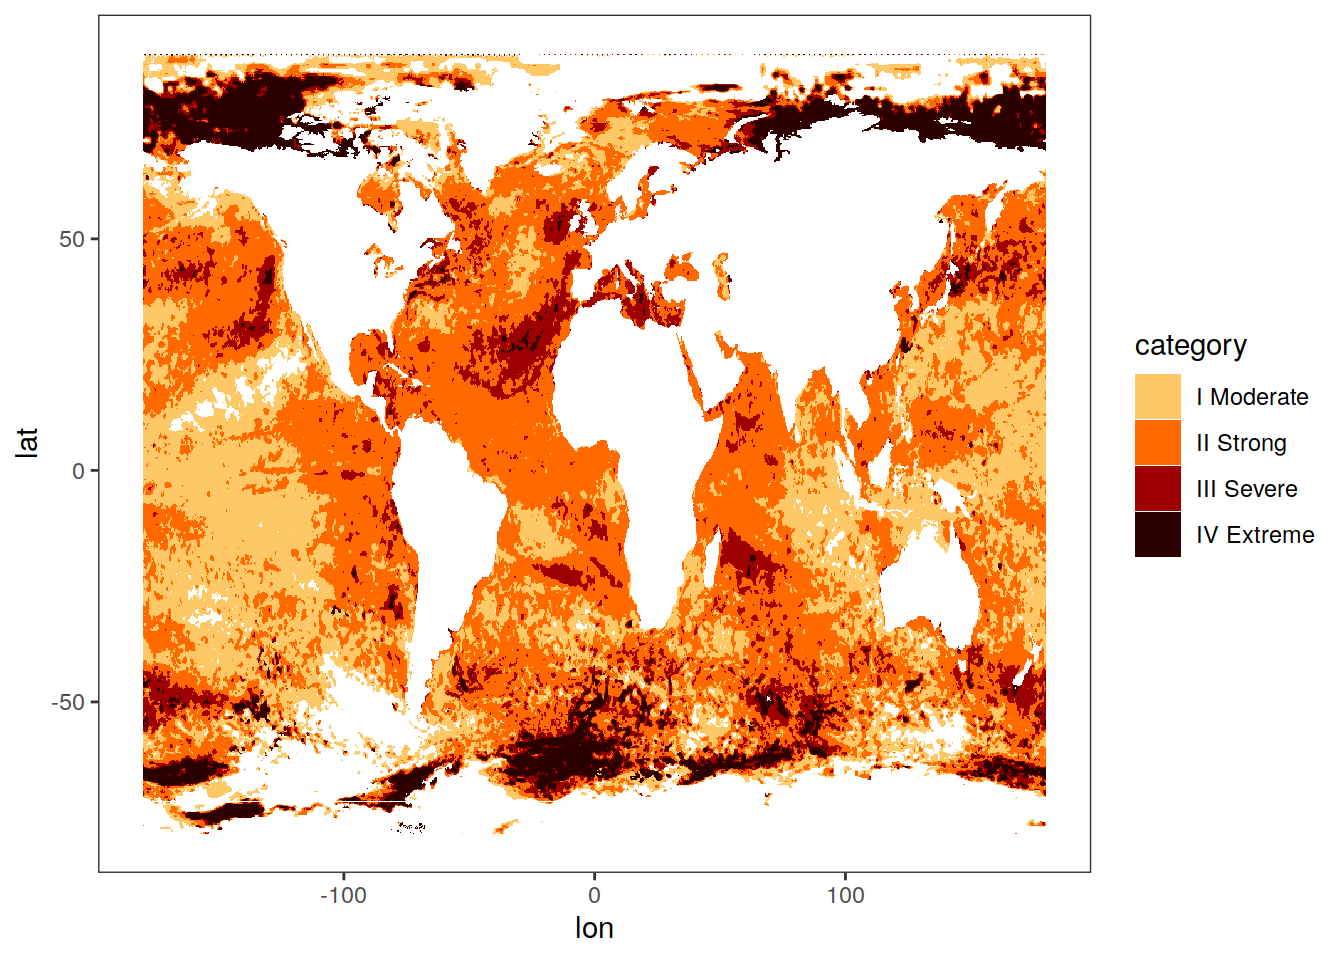
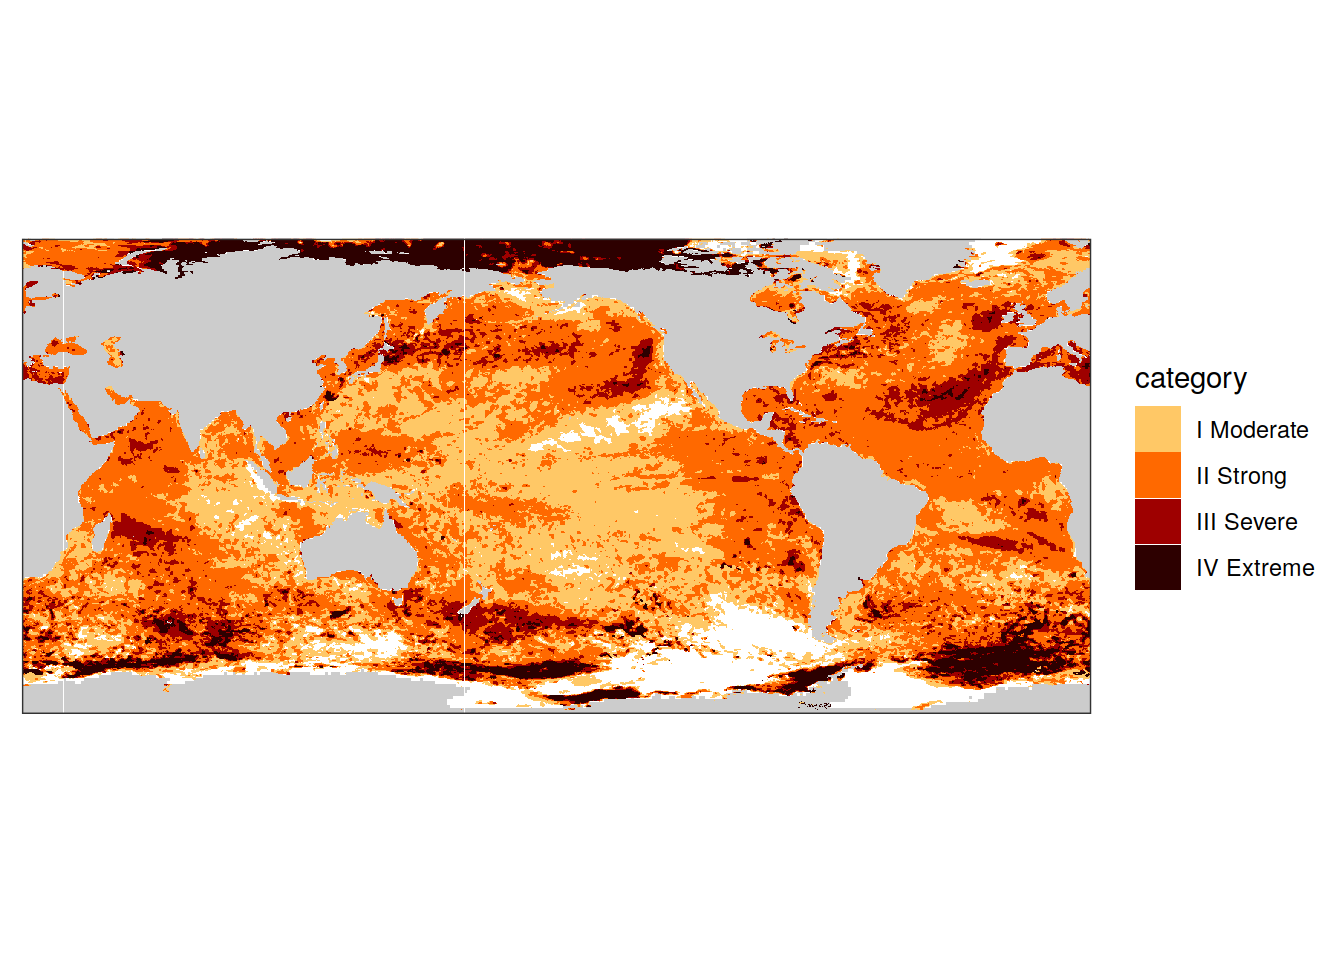
Build site.

diff --git a/docs/mhw_stats.html b/docs/mhw_stats.html
@@ -576,15 +576,15 @@ project makes it easier to run your code on other machines.</p>
 <div class="panel panel-default">
 <div class="panel-heading">
 <p class="panel-title">
-<a data-toggle="collapse" data-parent="#workflowr-checks" href="#strongRepositoryversionstrongahrefhttpsgithubcomjensdanielmuellerheatwaveco2flux2023tree63581785951e5d8ff635e6595d6369bfd85ce206targetblank6358178a">
+<a data-toggle="collapse" data-parent="#workflowr-checks" href="#strongRepositoryversionstrongahrefhttpsgithubcomjensdanielmuellerheatwaveco2flux2023treee537d6634d0e7b52669ed6558d202759836587cdtargetblanke537d66a">
 <span class="glyphicon glyphicon-ok text-success"
 aria-hidden="true"></span> <strong>Repository version:</strong>
-<a href="https://github.com/jens-daniel-mueller/heatwave_co2_flux_2023/tree/63581785951e5d8ff635e6595d6369bfd85ce206" target="_blank">6358178</a>
+<a href="https://github.com/jens-daniel-mueller/heatwave_co2_flux_2023/tree/e537d6634d0e7b52669ed6558d202759836587cd" target="_blank">e537d66</a>
 </a>
 </p>
 </div>
 <div
[2 lines of base64/hex data omitted]
 class="panel-collapse collapse">
 <div class="panel-body">
 <p>
@@ -594,7 +594,7 @@ reproducibility.
 </p>
 <p>
 The results in this page were generated with repository version
-<a href="https://github.com/jens-daniel-mueller/heatwave_co2_flux_2023/tree/63581785951e5d8ff635e6595d6369bfd85ce206" target="_blank">6358178</a>.
+<a href="https://github.com/jens-daniel-mueller/heatwave_co2_flux_2023/tree/e537d6634d0e7b52669ed6558d202759836587cd" target="_blank">e537d66</a>.
 See the <em>Past versions</em> tab to see a history of the changes made
 to the R Markdown and HTML files.
 </p>
@@ -656,6 +656,40 @@ Message
 </tr>
 </thead>
 <tbody>
+<tr>
+<td>
+Rmd
+</td>
+<td>
+<a href="https://github.com/jens-daniel-mueller/heatwave_co2_flux_2023/blob/e537d6634d0e7b52669ed6558d202759836587cd/analysis/mhw_stats.Rmd" target="_blank">e537d66</a>
+</td>
+<td>
+jens-daniel-mueller
+</td>
+<td>
+2024-03-24
+</td>
+<td>
+MHW stats started
+</td>
+</tr>
+<tr>
+<td>
+html
+</td>
+<td>
+<a href="https://rawcdn.githack.com/jens-daniel-mueller/heatwave_co2_flux_2023/dd640bdf90789c828e66beb69aa6d221046932f6/docs/mhw_stats.html" target="_blank">dd640bd</a>
+</td>
+<td>
+jens-daniel-mueller
+</td>
+<td>
+2024-03-24
+</td>
+<td>
+Build site.
+</td>
+</tr>
 <tr>
 <td>
 Rmd
@@ -828,10 +862,38 @@ latitude_labels_trans &lt;- st_transform(latitude_labels, crs = target_crs)
 #                aes(label = lat_label),
 #                size = 3,
 #                col = &quot;grey60&quot;)</code></pre>
+<div id="load-masks" class="section level1">
+<h1>Load masks</h1>
+<pre class="r"><code>map &lt;-
+  read_rds(&quot;../data/map.rds&quot;)
+
+key_biomes &lt;-
+  read_rds(&quot;../data/key_biomes.rds&quot;)
+
+super_biomes &lt;-
+  read_rds(&quot;../data/super_biomes.rds&quot;)
+
+super_biome_mask &lt;-
+  read_rds(&quot;../data/super_biome_mask.rds&quot;)
+
+biome_mask &lt;-
+  read_rds(&quot;../data/biome_mask.rds&quot;)</code></pre>
+</div>
 <div id="read-data" class="section level1">
 <h1>Read data</h1>
 <pre class="r"><code>MHW_cat_pixel_2023 &lt;- read_rds(&quot;../data/MHW_cat_pixel_2023.Rds&quot;)
+
+
+MHW_cat_pixel_2023 &lt;-
+  MHW_cat_pixel_2023 %&gt;%
+  rename(time = t) %&gt;%
+  mutate(lon = if_else(lon &lt; 20, lon + 360, lon))
+
+
 MHW_cat_daily_2023 &lt;- read_rds(&quot;../data/MHW_cat_daily_2023.Rds&quot;)</code></pre>
+</div>
+<div id="maps" class="section level1">
+<h1>Maps</h1>
 <pre class="r"><code>fillColCat &lt;- c(
   &quot;I Moderate&quot; = &quot;#ffc866&quot;,
   &quot;II Strong&quot; = &quot;#ff6900&quot;,
@@ -839,11 +901,11 @@ MHW_cat_daily_2023 &lt;- read_rds(&quot;../data/MHW_cat_daily_2023.Rds&quot;)</c
   &quot;IV Extreme&quot; = &quot;#2d0000&quot;
   )
 
-MHW_cat_pixel_2023 %&gt;% 
-  # filter(t == min(t)) %&gt;% 
-  ggplot(aes(lon, lat, fill = category)) +
+
+map +
   scale_fill_manual(values = fillColCat) +
-  geom_tile()</code></pre>
+  geom_tile(data =
+              MHW_cat_pixel_2023, aes(lon, lat, fill = category))</code></pre>
 <p><img src="figure/mhw_stats.Rmd/plot_mhw_map-1.png" width="672" style="display: block; margin: auto;" /></p>
 <p>
 <button type="button" class="btn btn-default btn-xs btn-workflowr btn-workflowr-fig" data-toggle="collapse" data-target="#fig-plot_mhw_map-1">
@@ -882,11 +944,12 @@ jens-daniel-mueller
 </table>
 </div>
 </div>
-<pre class="r"><code>MHW_cat_pixel_2023 %&gt;% 
-  # filter(t == min(t)) %&gt;% 
-  ggplot(aes(lon, lat, fill = intensity)) +
-  scale_fill_viridis_c(option = &quot;magma&quot;) +
-  geom_tile()</code></pre>
+<pre class="r"><code>map +
+  geom_tile(data =
+              MHW_cat_pixel_2023, aes(lon, lat, fill = intensity_sum)) +
+  scale_fill_viridis_b(option = &quot;magma&quot;,
+                       breaks = c(seq(0, 1000, 200), Inf),
+                       direction = -1)</code></pre>
 <p><img src="figure/mhw_stats.Rmd/plot_mhw_map-2.png" width="672" style="display: block; margin: auto;" /></p>
 <p>
 <button type="button" class="btn btn-default btn-xs btn-workflowr btn-workflowr-fig" data-toggle="collapse" data-target="#fig-plot_mhw_map-2">
@@ -913,52 +976,6 @@ Date
 <tr>
 <td>
 <a href="https://github.com/jens-daniel-mueller/heatwave_co2_flux_2023/blob/1a5167d3900043a4afdc4c20c43e4d03a9b0cd25/docs/figure/mhw_stats.Rmd/plot_mhw_map-2.png" target="_blank">1a5167d</a>
-</td>
-<td>
-jens-daniel-mueller
-</td>
-<td>
-2024-03-24
-</td>
-</tr>
-</tbody>
-</table>
-</div>
-</div>
-<pre class="r"><code>MHW_cat_pixel_2023 %&gt;% 
-  # filter(t == min(t)) %&gt;% 
-  ggplot(aes(lon, lat, fill = intensity_sum)) +
-  scale_fill_viridis_b(option = &quot;magma&quot;,
-                       breaks = c(seq(0,1000,200),Inf),
-                       direction = -1) +
-  geom_tile() +
-  coord_quickmap(expand = 0)</code></pre>
-<p><img src="figure/mhw_stats.Rmd/plot_mhw_map-3.png" width="672" style="display: block; margin: auto;" /></p>
-<p>
-<button type="button" class="btn btn-default btn-xs btn-workflowr btn-workflowr-fig" data-toggle="collapse" data-target="#fig-plot_mhw_map-3">
-Past versions of plot_mhw_map-3.png
-</button>
-</p>
-<div id="fig-plot_mhw_map-3" class="collapse">
-<div class="table-responsive">
-<table class="table table-condensed table-hover">
-<thead>
-<tr>
-<th>
-Version
-</th>
-<th>
-Author
-</th>
-<th>
-Date
-</th>
-</tr>
-</thead>
-<tbody>
-<tr>
-<td>
-<a href="https://github.com/jens-daniel-mueller/heatwave_co2_flux_2023/blob/1a5167d3900043a4afdc4c20c43e4d03a9b0cd25/docs/figure/mhw_stats.Rmd/plot_mhw_map-3.png" target="_blank">1a5167d</a>
 </td>
 <td>
 jens-daniel-mueller
@@ -1009,38 +1026,38 @@ other attached packages:
 [19] tibble_3.2.1        ggplot2_3.4.4       tidyverse_1.3.2    
 
 loaded via a namespace (and not attached):
- [1] googledrive_2.0.0       ellipsis_0.3.2          class_7.3-20           
- [4] rprojroot_2.0.3         fs_1.5.2                rstudioapi_0.15.0      
- [7] proxy_0.4-27            farver_2.1.1            bit64_4.0.5            
-[10] fansi_1.0.3             lubridate_1.9.0         xml2_1.3.3             
-[13] codetools_0.2-18        cachem_1.0.6            knitr_1.41             
-[16] polyclip_1.10-4         jsonlite_1.8.3          workflowr_1.7.0        
-[19] gsw_1.1-1               broom_1.0.5             dbplyr_2.2.1           
-[22] compiler_4.2.2          httr_1.4.4              backports_1.4.1        
-[25] assertthat_0.2.1        fastmap_1.1.0           gargle_1.2.1           
-[28] cli_3.6.1               later_1.3.0             tweenr_2.0.2           
-[31] htmltools_0.5.3         tools_4.2.2             gtable_0.3.1           
-[34] glue_1.6.2              rnaturalearthdata_0.1.0 Rcpp_1.0.11            
-[37] cellranger_1.1.0        jquerylib_0.1.4         vctrs_0.6.4            
-[40] xfun_0.35               rvest_1.0.3             timechange_0.1.1       
-[43] lifecycle_1.0.3         googlesheets4_1.0.1     oce_1.7-10             
-[46] MASS_7.3-58.1           scales_1.2.1            vroom_1.6.0            
-[49] hms_1.1.2               promises_1.2.0.1        parallel_4.2.2         
-[52] yaml_2.3.6              memoise_2.0.1           sass_0.4.4             
-[55] stringi_1.7.8           highr_0.9               e1071_1.7-12           
-[58] checkmate_2.1.0         rlang_1.1.1             pkgconfig_2.0.3        
-[61] systemfonts_1.0.4       evaluate_0.18           lattice_0.20-45        
-[64] SolveSAPHE_2.1.0        labeling_0.4.2          bit_4.0.5              
-[67] tidyselect_1.2.0        seacarb_3.3.1           magrittr_2.0.3         
-[70] R6_2.5.1                generics_0.1.3          DBI_1.1.3              
-[73] pillar_1.9.0            haven_2.5.1             whisker_0.4            
-[76] withr_2.5.0             units_0.8-0             sp_1.5-1               
-[79] modelr_0.1.10           crayon_1.5.2            KernSmooth_2.23-20     
-[82] utf8_1.2.2              tzdb_0.3.0              rmarkdown_2.18         
-[85] grid_4.2.2              readxl_1.4.1            data.table_1.14.6      
-[88] git2r_0.30.1            reprex_2.0.2            digest_0.6.30          
-[91] classInt_0.4-8          httpuv_1.6.6            textshaping_0.3.6      
-[94] munsell_0.5.0           viridisLite_0.4.1       bslib_0.4.1            </code></pre>
+ [1] fs_1.5.2                bit64_4.0.5             lubridate_1.9.0        
+ [4] gsw_1.1-1               httr_1.4.4              rprojroot_2.0.3        
+ [7] tools_4.2.2             backports_1.4.1         bslib_0.4.1            
+[10] utf8_1.2.2              R6_2.5.1                KernSmooth_2.23-20     
+[13] DBI_1.1.3               sp_1.5-1                withr_2.5.0            
+[16] rnaturalearthdata_0.1.0 tidyselect_1.2.0        bit_4.0.5              
+[19] compiler_4.2.2          git2r_0.30.1            textshaping_0.3.6      
+[22] cli_3.6.1               rvest_1.0.3             xml2_1.3.3             
+[25] sass_0.4.4              scales_1.2.1            checkmate_2.1.0        
+[28] classInt_0.4-8          proxy_0.4-27            SolveSAPHE_2.1.0       
+[31] systemfonts_1.0.4       digest_0.6.30           rmarkdown_2.18         
+[34] oce_1.7-10              pkgconfig_2.0.3         htmltools_0.5.3        
+[37] highr_0.9               dbplyr_2.2.1            fastmap_1.1.0          
+[40] rlang_1.1.1             readxl_1.4.1            rstudioapi_0.15.0      
+[43] jquerylib_0.1.4         generics_0.1.3          farver_2.1.1           
+[46] jsonlite_1.8.3          vroom_1.6.0             googlesheets4_1.0.1    
+[49] magrittr_2.0.3          Rcpp_1.0.11             munsell_0.5.0          
+[52] fansi_1.0.3             lifecycle_1.0.3         stringi_1.7.8          
+[55] whisker_0.4             yaml_2.3.6              MASS_7.3-58.1          
+[58] grid_4.2.2              parallel_4.2.2          promises_1.2.0.1       
+[61] crayon_1.5.2            lattice_0.20-45         haven_2.5.1            
+[64] hms_1.1.2               seacarb_3.3.1           knitr_1.41             
+[67] pillar_1.9.0            codetools_0.2-18        reprex_2.0.2           
+[70] glue_1.6.2              evaluate_0.18           data.table_1.14.6      
+[73] modelr_0.1.10           vctrs_0.6.4             tzdb_0.3.0             
+[76] tweenr_2.0.2            httpuv_1.6.6            cellranger_1.1.0       
+[79] gtable_0.3.1            polyclip_1.10-4         assertthat_0.2.1       
+[82] cachem_1.0.6            xfun_0.35               broom_1.0.5            
+[85] e1071_1.7-12            later_1.3.0             viridisLite_0.4.1      
+[88] class_7.3-20            googledrive_2.0.0       gargle_1.2.1           
+[91] memoise_2.0.1           units_0.8-0             workflowr_1.7.0        
+[94] timechange_0.1.1        ellipsis_0.3.2         </code></pre>
 </div>
 </div>
 
